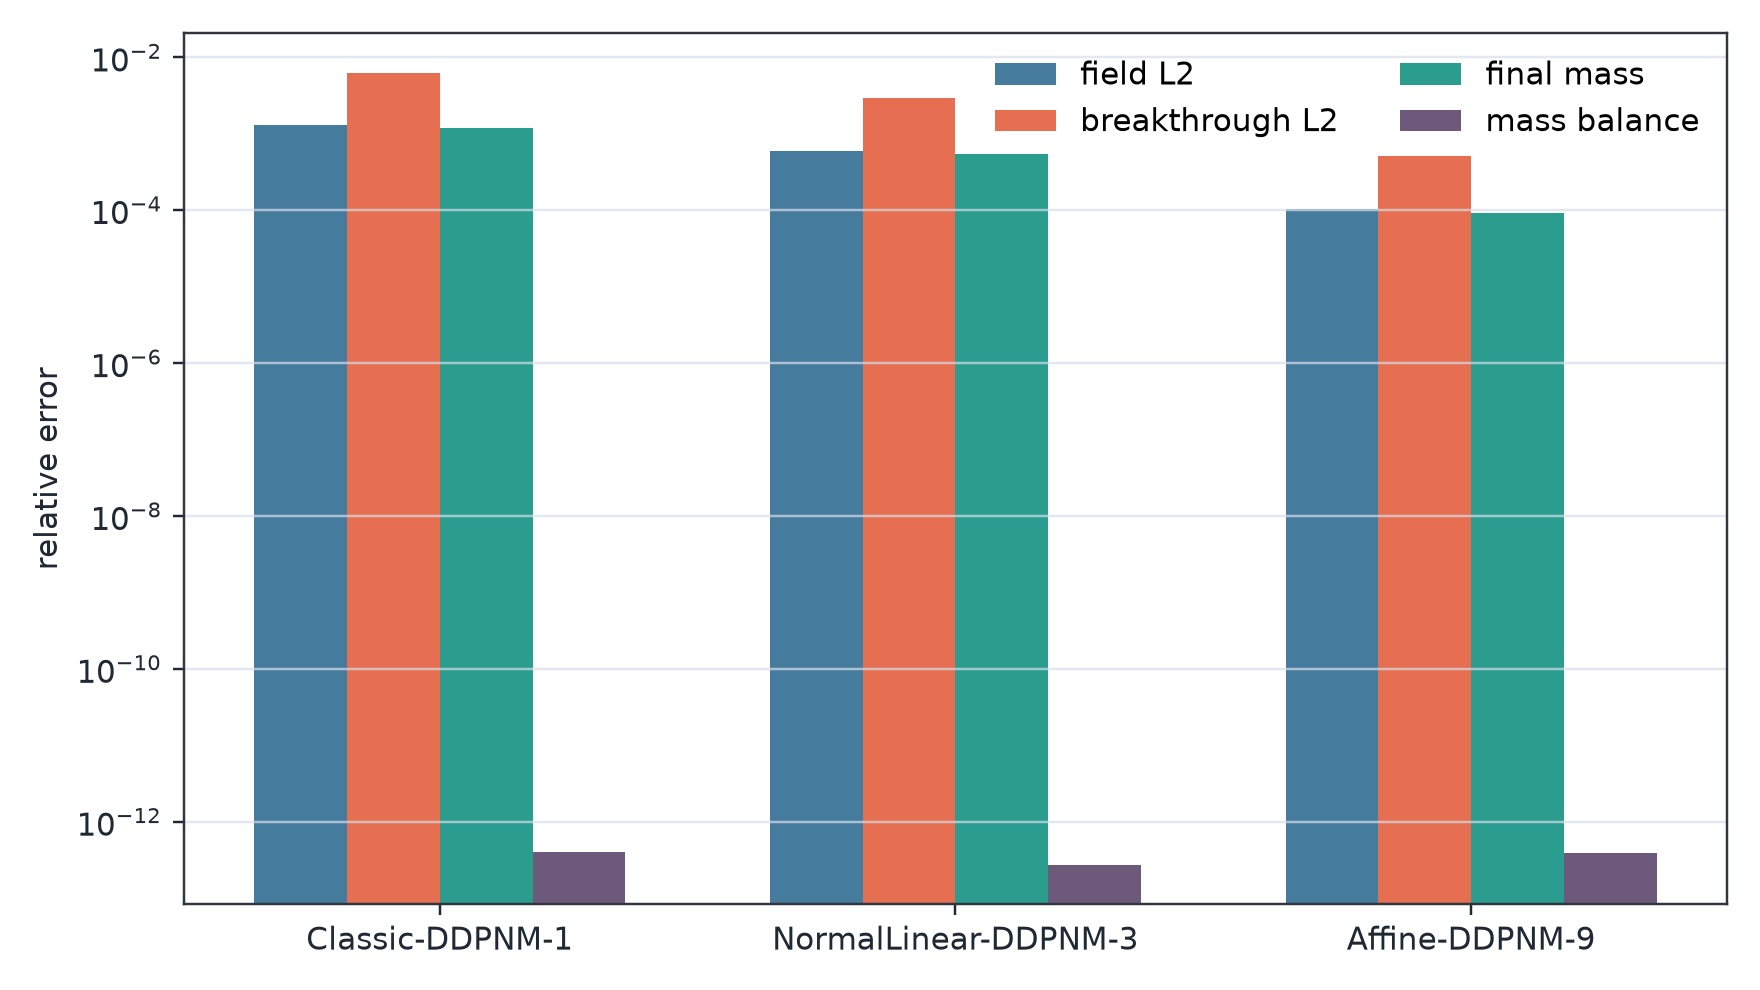
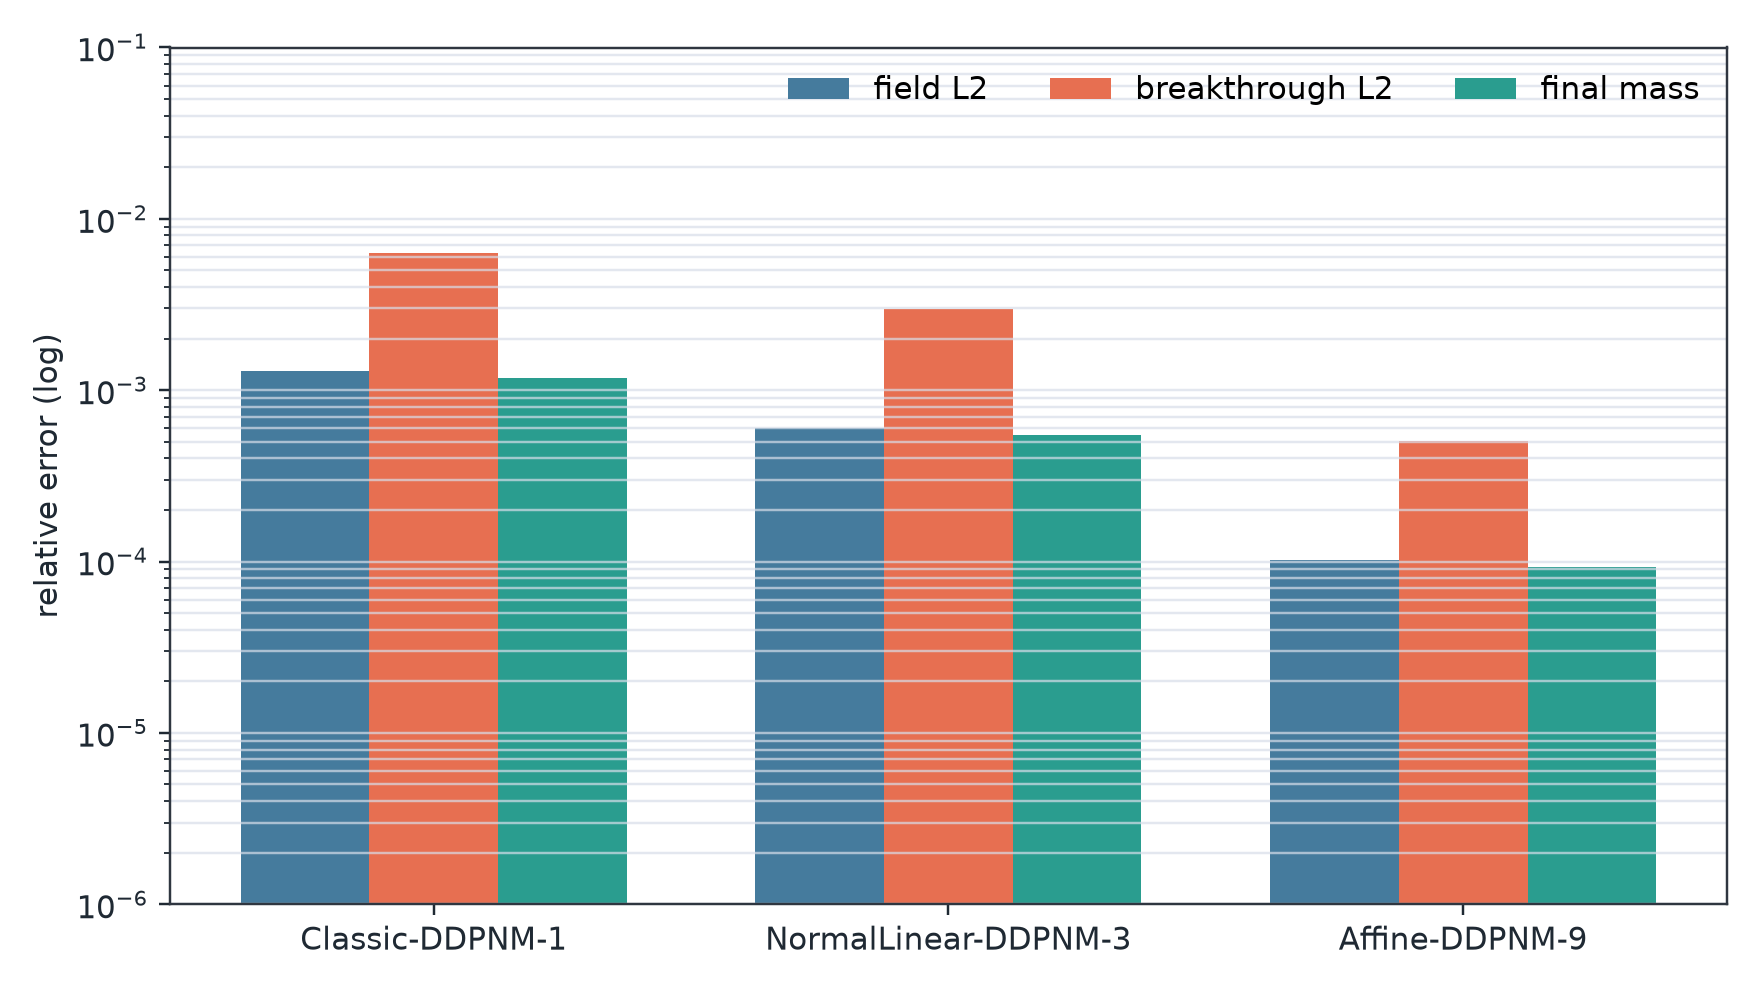
feat: error-field cloud plots and readable tracer error summary
- plot_tracer_errors.py: 2x3 spatial error clouds from saved outputs
  (log10 |u_ddpnm-u_fem| and log10 |c_ddpnm-c_fem| per method, magma)
- tracer_error_summary.png: exclude the machine-precision mass-balance
  series and tighten ylim so the O(1e-5..1e-2) error differences are
  visible; mass conservation remains in mass_balance_validation.png
- rerunnable without the 3-minute benchmark (reads npz + json)

diff --git a/20260824/affine_ddpnm_tracer/plot_tracer_errors.py b/20260824/affine_ddpnm_tracer/plot_tracer_errors.py
@@ -1,0 +1,154 @@
+#!/usr/bin/env python3
+"""Error-field visualization for the affine-DDPNM tracer run.
+
+Reads the saved run outputs (no benchmark rerun needed) and renders:
+
+1. ``outputs/benchmark_tracer/error_field_cloud.png`` — spatial error
+   fields on the tetrahedral cloud, 2 rows x 3 methods:
+
+   - row 1: ``log10 |u_ddpnm - u_fem|``  (velocity error)
+   - row 2: ``log10 |c_ddpnm - c_fem|``  (tracer concentration error)
+
+   magma colormap, per-panel percentile color range, identical camera.
+
+2. ``outputs/benchmark_tracer/tracer_error_summary.png`` — regenerates the
+   error comparison chart with the readable y-axis (machine-precision
+   mass-balance series removed, ylim tightened).
+
+Run in the FEniCSx environment:
+
+    conda run -n fenicsx --no-capture-output python -u plot_tracer_errors.py
+"""
+
+from __future__ import annotations
+
+import json
+import sys
+from pathlib import Path
+
+import numpy as np
+import pyvista as pv
+
+PROJECT_DIR = Path(__file__).resolve().parent
+if str(PROJECT_DIR) not in sys.path:
+    sys.path.insert(0, str(PROJECT_DIR))
+
+import tracer_transport as tracer
+
+OUT_DIR = PROJECT_DIR / "outputs" / "benchmark_tracer"
+
+METHODS = ("Classic-DDPNM-1", "NormalLinear-DDPNM-3", "Affine-DDPNM-9")
+NPZ_KEY = {
+    "Classic-DDPNM-1": "Classic_DDPNM_1",
+    "NormalLinear-DDPNM-3": "NormalLinear_DDPNM_3",
+    "Affine-DDPNM-9": "Affine_DDPNM_9",
+}
+
+
+def log10_range(values: np.ndarray, floor: float) -> tuple[float, float]:
+    finite = np.asarray(values[np.isfinite(values)], dtype=float)
+    if len(finite) == 0:
+        return np.log10(floor), np.log10(floor) + 2.0
+    lo = float(np.percentile(finite, 5.0))
+    hi = float(np.percentile(finite, 99.2))
+    if hi <= lo:
+        hi = lo + 1.0
+    return lo, hi
+
+
+def render_error_cloud(
+    grid,
+    velocity_error: dict[str, np.ndarray],
+    concentration_error: dict[str, np.ndarray],
+    out: Path,
+) -> None:
+    pv.global_theme.font.family = "arial"
+    plotter = pv.Plotter(
+        off_screen=True, window_size=(640 * 3, 720 * 2), shape=(2, 3), border=False
+    )
+    plotter.set_background("white")
+
+    panels = [
+        ("velocity", "log10 |Δu|", velocity_error, "magma", 1.0e-12),
+        ("concentration", "log10 |Δc|", concentration_error, "magma", 1.0e-14),
+    ]
+    for row, (label, scalar_title, errors, cmap, floor) in enumerate(panels):
+        for col, method in enumerate(METHODS):
+            plotter.subplot(row, col)
+            values = errors[method]
+            log_values = np.log10(np.maximum(values, floor))
+            clim = log10_range(log_values, floor)
+            plotter.add_mesh(
+                grid,
+                scalars=log_values,
+                cmap=cmap,
+                clim=clim,
+                opacity=0.72,
+                smooth_shading=False,
+                show_edges=False,
+                scalar_bar_args={
+                    "title": scalar_title,
+                    "vertical": True,
+                    "position_x": 0.88,
+                    "position_y": 0.18,
+                    "width": 0.045,
+                    "height": 0.60,
+                    "title_font_size": 15,
+                    "label_font_size": 12,
+                    "fmt": "%.1f",
+                    "color": "black",
+                },
+            )
+            plotter.add_text(
+                f"{method} {label} error",
+                position=(0.035, 0.925),
+                font_size=14,
+                color="black",
+                viewport=True,
+            )
+            tracer.set_tracer_paper_camera(plotter, grid.bounds)
+
+    plotter.screenshot(str(out), transparent_background=False)
+    plotter.close()
+
+
+def main() -> None:
+    data = np.load(OUT_DIR / "tracer_velocity_fields.npz")
+    points = np.asarray(data["points"], dtype=float)
+    tetrahedra = np.asarray(data["tetrahedra"], dtype=np.int64)
+    u_fem = np.asarray(data["u_FEM"], dtype=float)
+    c_fem = np.asarray(data["c_FEM"], dtype=float)
+
+    velocity_error = {
+        method: np.linalg.norm(np.asarray(data[f"u_{NPZ_KEY[method]}"], dtype=float) - u_fem, axis=1)
+        for method in METHODS
+    }
+    concentration_error = {
+        method: np.abs(np.asarray(data[f"c_{NPZ_KEY[method]}"], dtype=float) - c_fem)
+        for method in METHODS
+    }
+
+    cells = np.hstack(
+        [np.full((len(tetrahedra), 1), 4, dtype=np.int64), tetrahedra]
+    ).ravel()
+    celltypes = np.full(len(tetrahedra), pv.CellType.TETRA, dtype=np.uint8)
+    grid = pv.UnstructuredGrid(cells, celltypes, points)
+
+    render_error_cloud(grid, velocity_error, concentration_error, OUT_DIR / "error_field_cloud.png")
+
+    report = json.loads((OUT_DIR / "affine_ddpnm_tracer_report.json").read_text(encoding="utf-8"))
+    tracer.plot_error_summary(OUT_DIR / "tracer_error_summary.png", report["tracer_metrics"])
+
+    for method in METHODS:
+        print(
+            f"{method}: velocity error max={np.max(velocity_error[method]):.3e}, "
+            f"median={np.median(velocity_error[method]):.3e}; "
+            f"concentration error max={np.max(concentration_error[method]):.3e}, "
+            f"median={np.median(concentration_error[method]):.3e}"
+        )
+    print(f"wrote {OUT_DIR / 'error_field_cloud.png'}")
+    print(f"wrote {OUT_DIR / 'tracer_error_summary.png'}")
+
+
+if __name__ == "__main__":
+    main()

diff --git a/20260824/affine_ddpnm_tracer/tracer_transport.py b/20260824/affine_ddpnm_tracer/tracer_transport.py
@@ -511,19 +511,22 @@ def plot_error_summary(out: Path, rows: list[dict[str, object]]) -> None:
     concentration = [float(row["concentration_rel_l2_fem_integral_vs_fem"]) for row in rows if row["method"] != "FEM"]
     breakthrough = [float(row["breakthrough_rel_l2_error"]) for row in rows if row["method"] != "FEM"]
     mass = [abs(float(row["final_mass_rel_error_vs_fem"])) for row in rows if row["method"] != "FEM"]
-    balance = [float(row["max_mass_balance_relative_residual"]) for row in rows if row["method"] != "FEM"]
+    # The mass-balance series is excluded on purpose: it sits at machine
+    # precision (~1e-13) for every method, and forcing it onto the same log
+    # axis flattens the O(1e-5..1e-2) error differences to a sliver.  Mass
+    # conservation is still visible in mass_balance_validation.png.
     x = np.arange(len(methods))
-    width = 0.18
+    width = 0.25
     fig, ax = plt.subplots(figsize=(8.0, 4.5), dpi=220)
-    ax.bar(x - 1.5 * width, concentration, width, label="field L2", color="#457b9d")
-    ax.bar(x - 0.5 * width, breakthrough, width, label="breakthrough L2", color="#e76f51")
-    ax.bar(x + 0.5 * width, mass, width, label="final mass", color="#2a9d8f")
-    ax.bar(x + 1.5 * width, balance, width, label="mass balance", color="#6d597a")
+    ax.bar(x - width, concentration, width, label="field L2", color="#457b9d")
+    ax.bar(x, breakthrough, width, label="breakthrough L2", color="#e76f51")
+    ax.bar(x + width, mass, width, label="final mass", color="#2a9d8f")
     ax.set_yscale("log")
+    ax.set_ylim(1.0e-6, 1.0e-1)
     ax.set_xticks(x, methods)
-    ax.set_ylabel("relative error")
+    ax.set_ylabel("relative error (log)")
     ax.grid(True, axis="y", which="both", alpha=0.7)
-    ax.legend(ncols=2)
+    ax.legend(ncols=3)
     fig.tight_layout()
     fig.savefig(out)
     plt.close(fig)

diff --git a/20260824/affine_ddpnm_tracer/README.md b/20260824/affine_ddpnm_tracer/README.md
@@ -40,8 +40,21 @@ Outputs are written to `outputs\benchmark_tracer\`:
 - `tracer_metrics.csv`, `mass_balance_history.csv`
 - `breakthrough_curves.png`, `mass_balance_validation.png`,
   `tracer_error_summary.png`, `final_concentration_and_error.png`
+- `error_field_cloud.png` (2x3 spatial error clouds: log10 velocity and
+  concentration error per method, generated by `plot_tracer_errors.py`)
 - `tracer_velocity_fields.npz` (vertex velocity + final concentration per
   method), per-method VTU files, `random_sphere_partition.msh`
+
+Reproduce the plots from saved outputs (no benchmark rerun):
+
+```powershell
+conda run -n fenicsx --no-capture-output python -u plot_tracer_errors.py
+```
+
+Note: `tracer_error_summary.png` deliberately excludes the mass-balance
+series (machine precision ~1e-13 for every method), which flattened the
+O(1e-5..1e-2) error differences on a shared log axis; mass conservation is
+shown in `mass_balance_validation.png` instead.
 
 ## Structure
 
